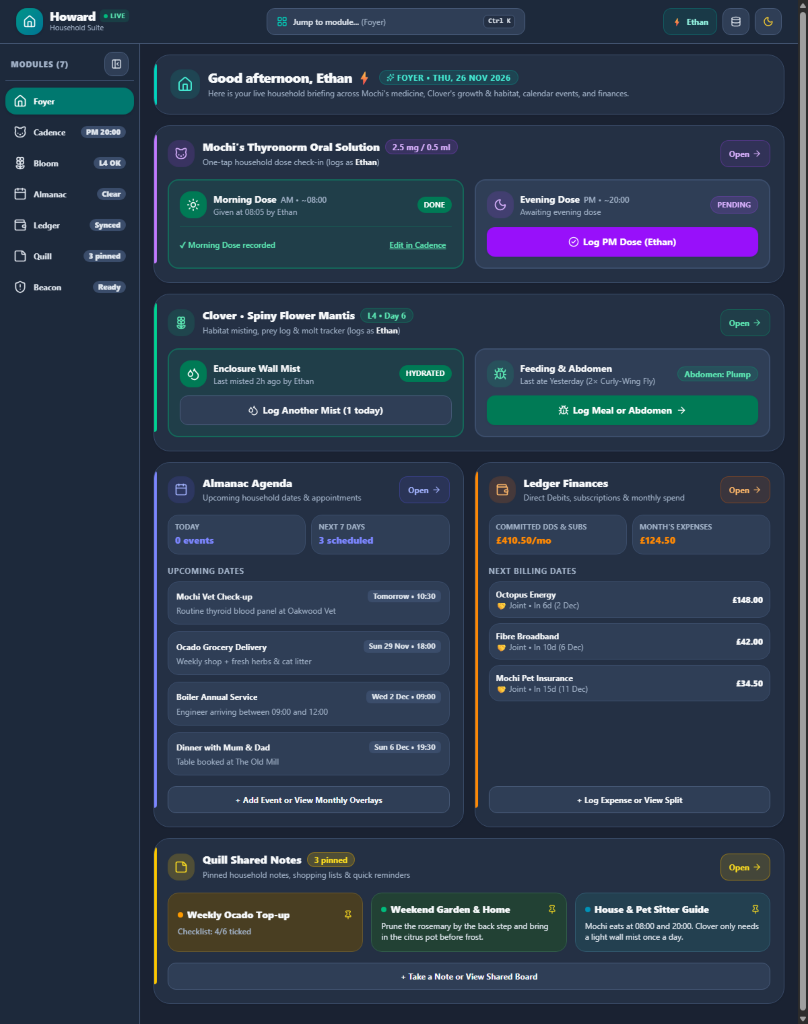
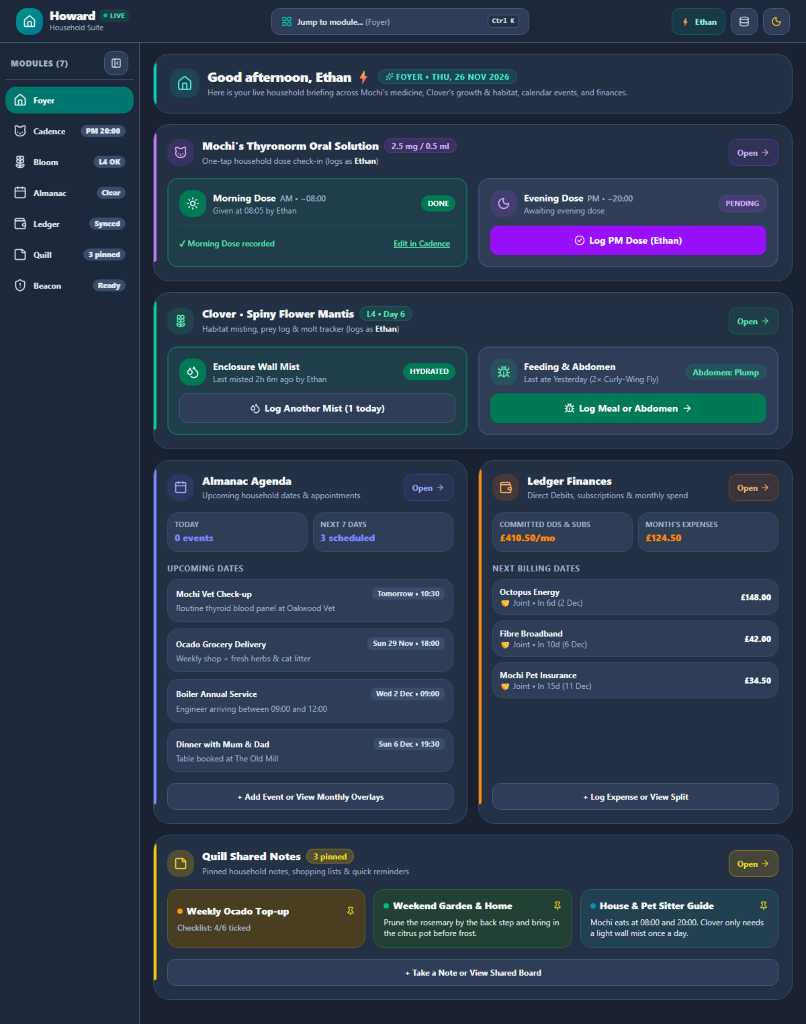
Fix 1px header overflow scrollbar and refresh Foyer preview

diff --git a/src/components/shell/AppNavigation.jsx b/src/components/shell/AppNavigation.jsx
@@ -43,8 +43,8 @@ export function HeaderBar({
   const pillStyle = PROFILE_PILL_STYLES[activeProfile.id] || PROFILE_PILL_STYLES.caregiver;
 
   return (
-    <header className="sticky top-0 z-40 w-full overflow-x-clip border-b backdrop-blur-md no-print">
-      <div className="w-full px-2.5 sm:px-4 lg:px-6 h-16 flex items-center justify-between gap-1.5 sm:gap-2">
+    <header className="sticky top-0 z-40 w-full h-16 overflow-x-clip border-b backdrop-blur-md no-print">
+      <div className="w-full px-2.5 sm:px-4 lg:px-6 h-full flex items-center justify-between gap-1.5 sm:gap-2">
         {/* Brand Logo + Live Sync Status */}
         <div className="flex items-center gap-1.5 sm:gap-2 shrink-0">
           <button
